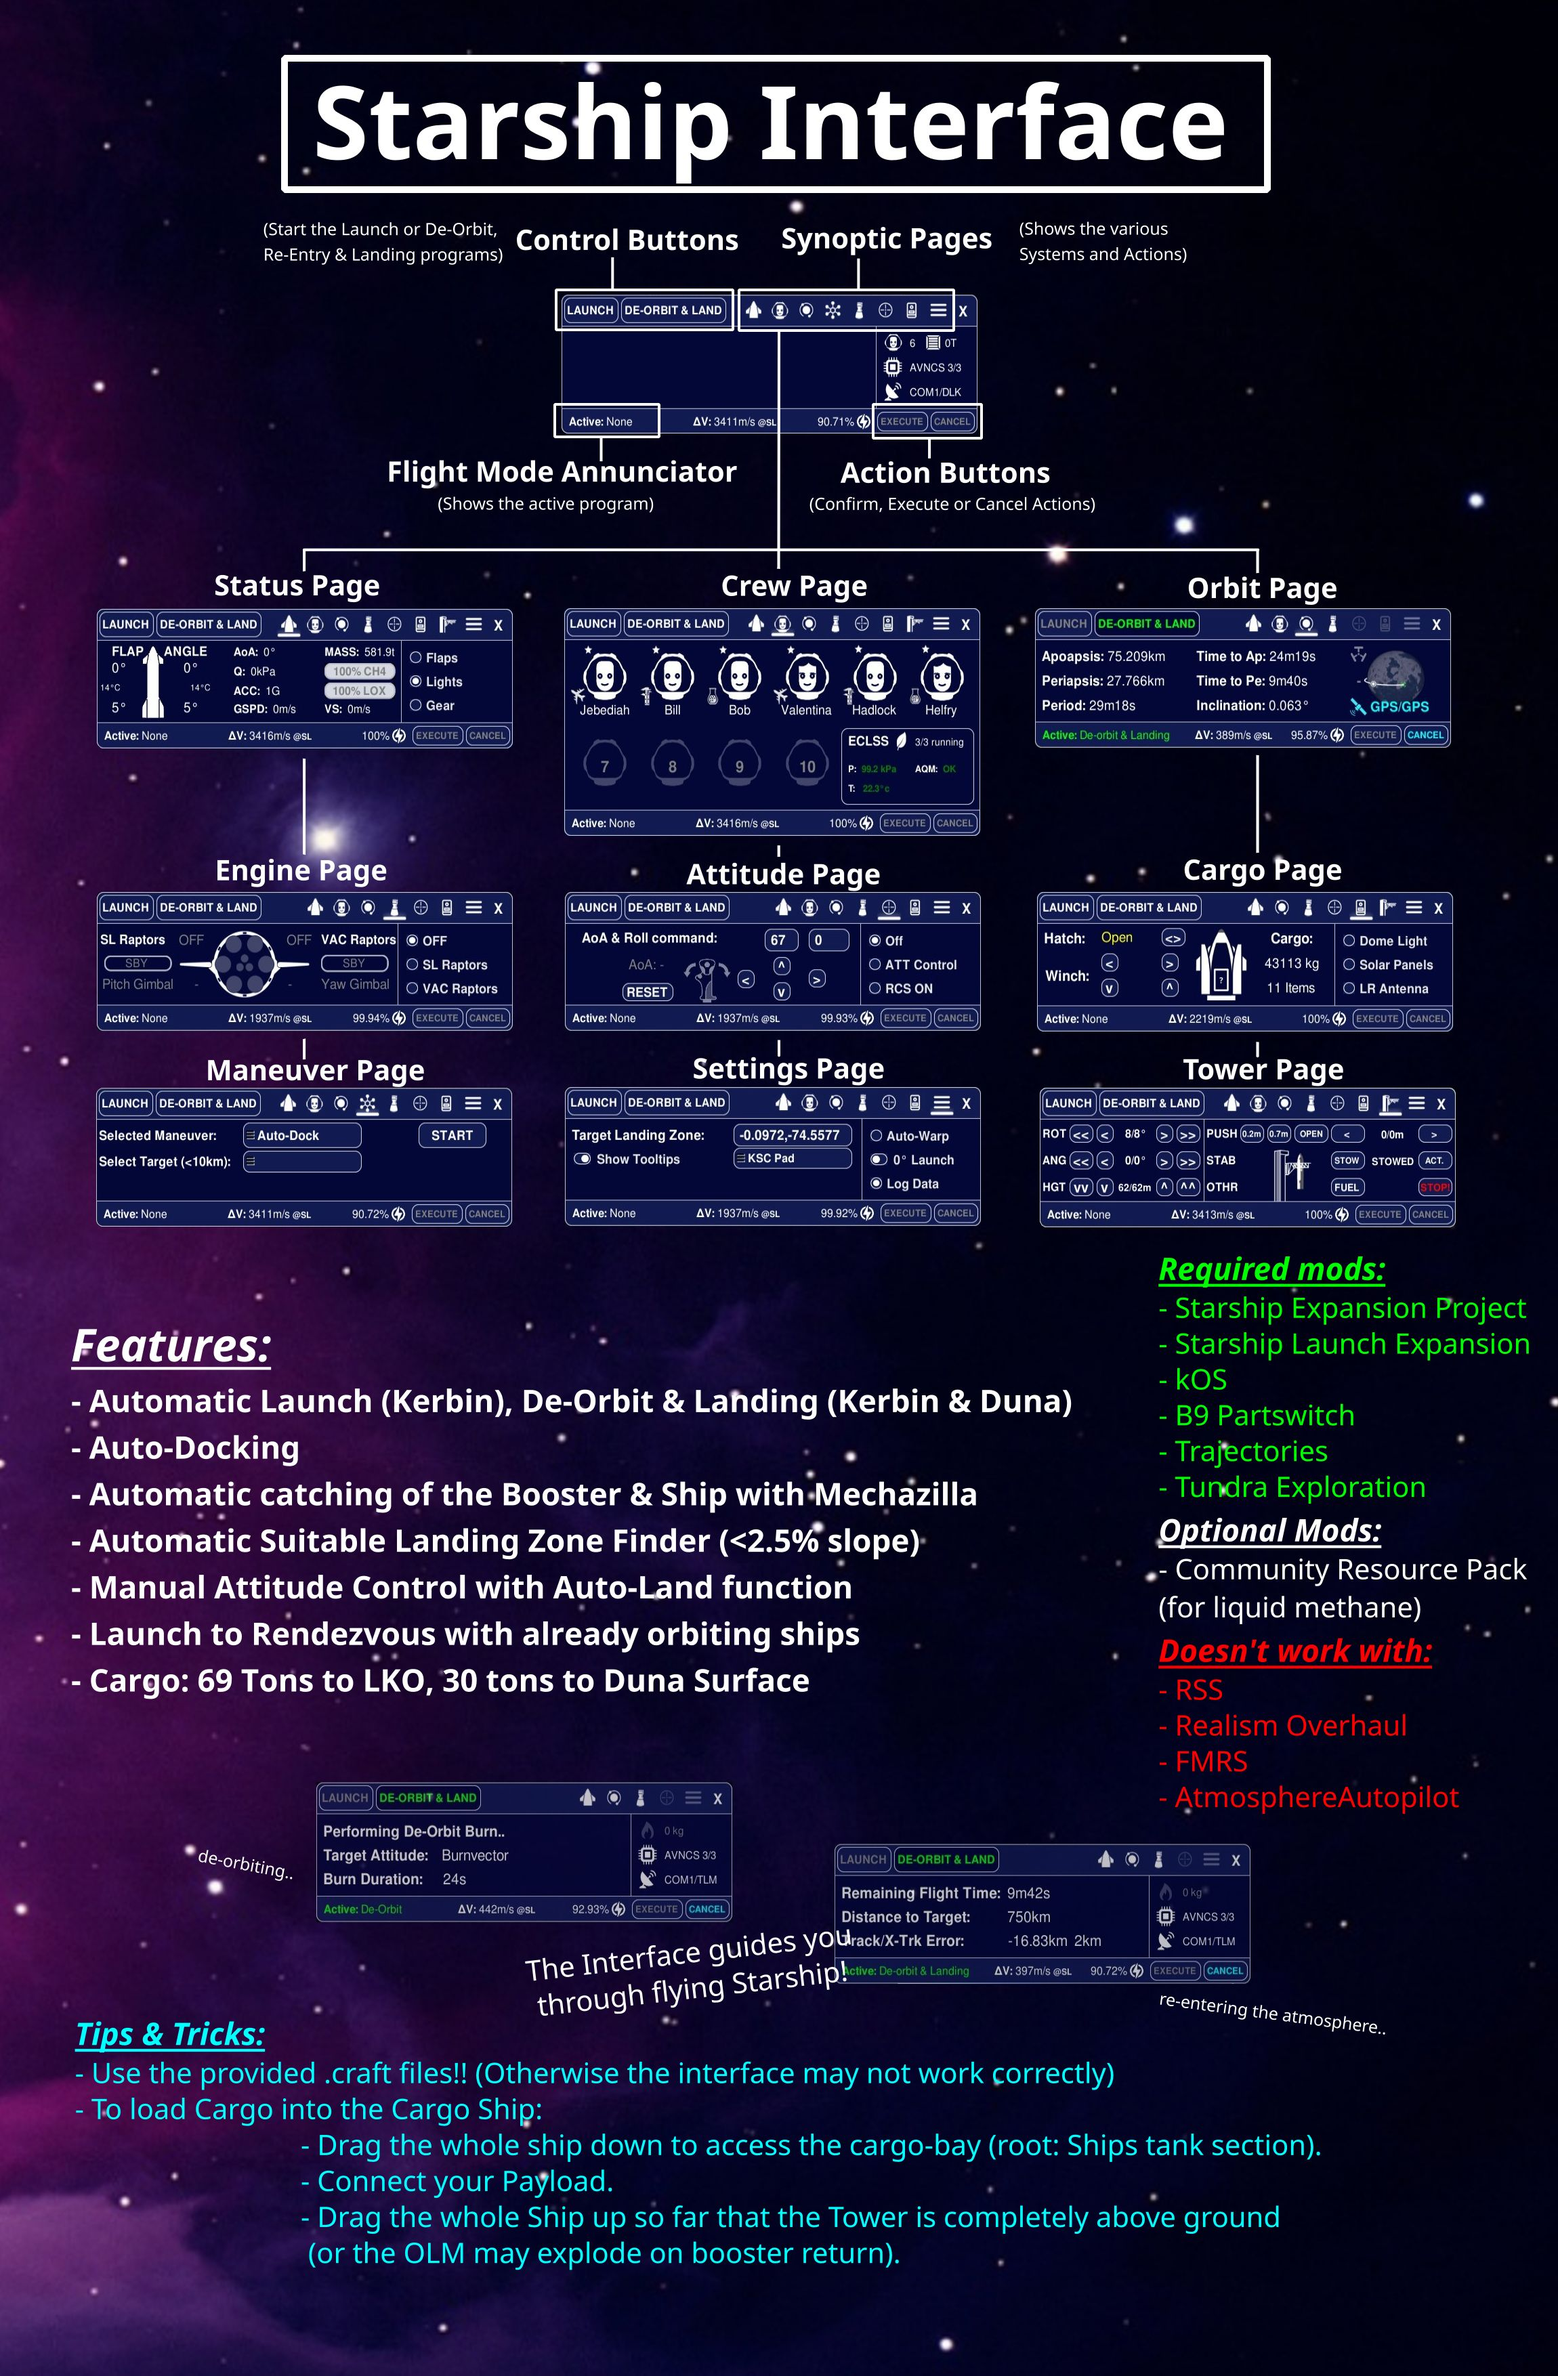
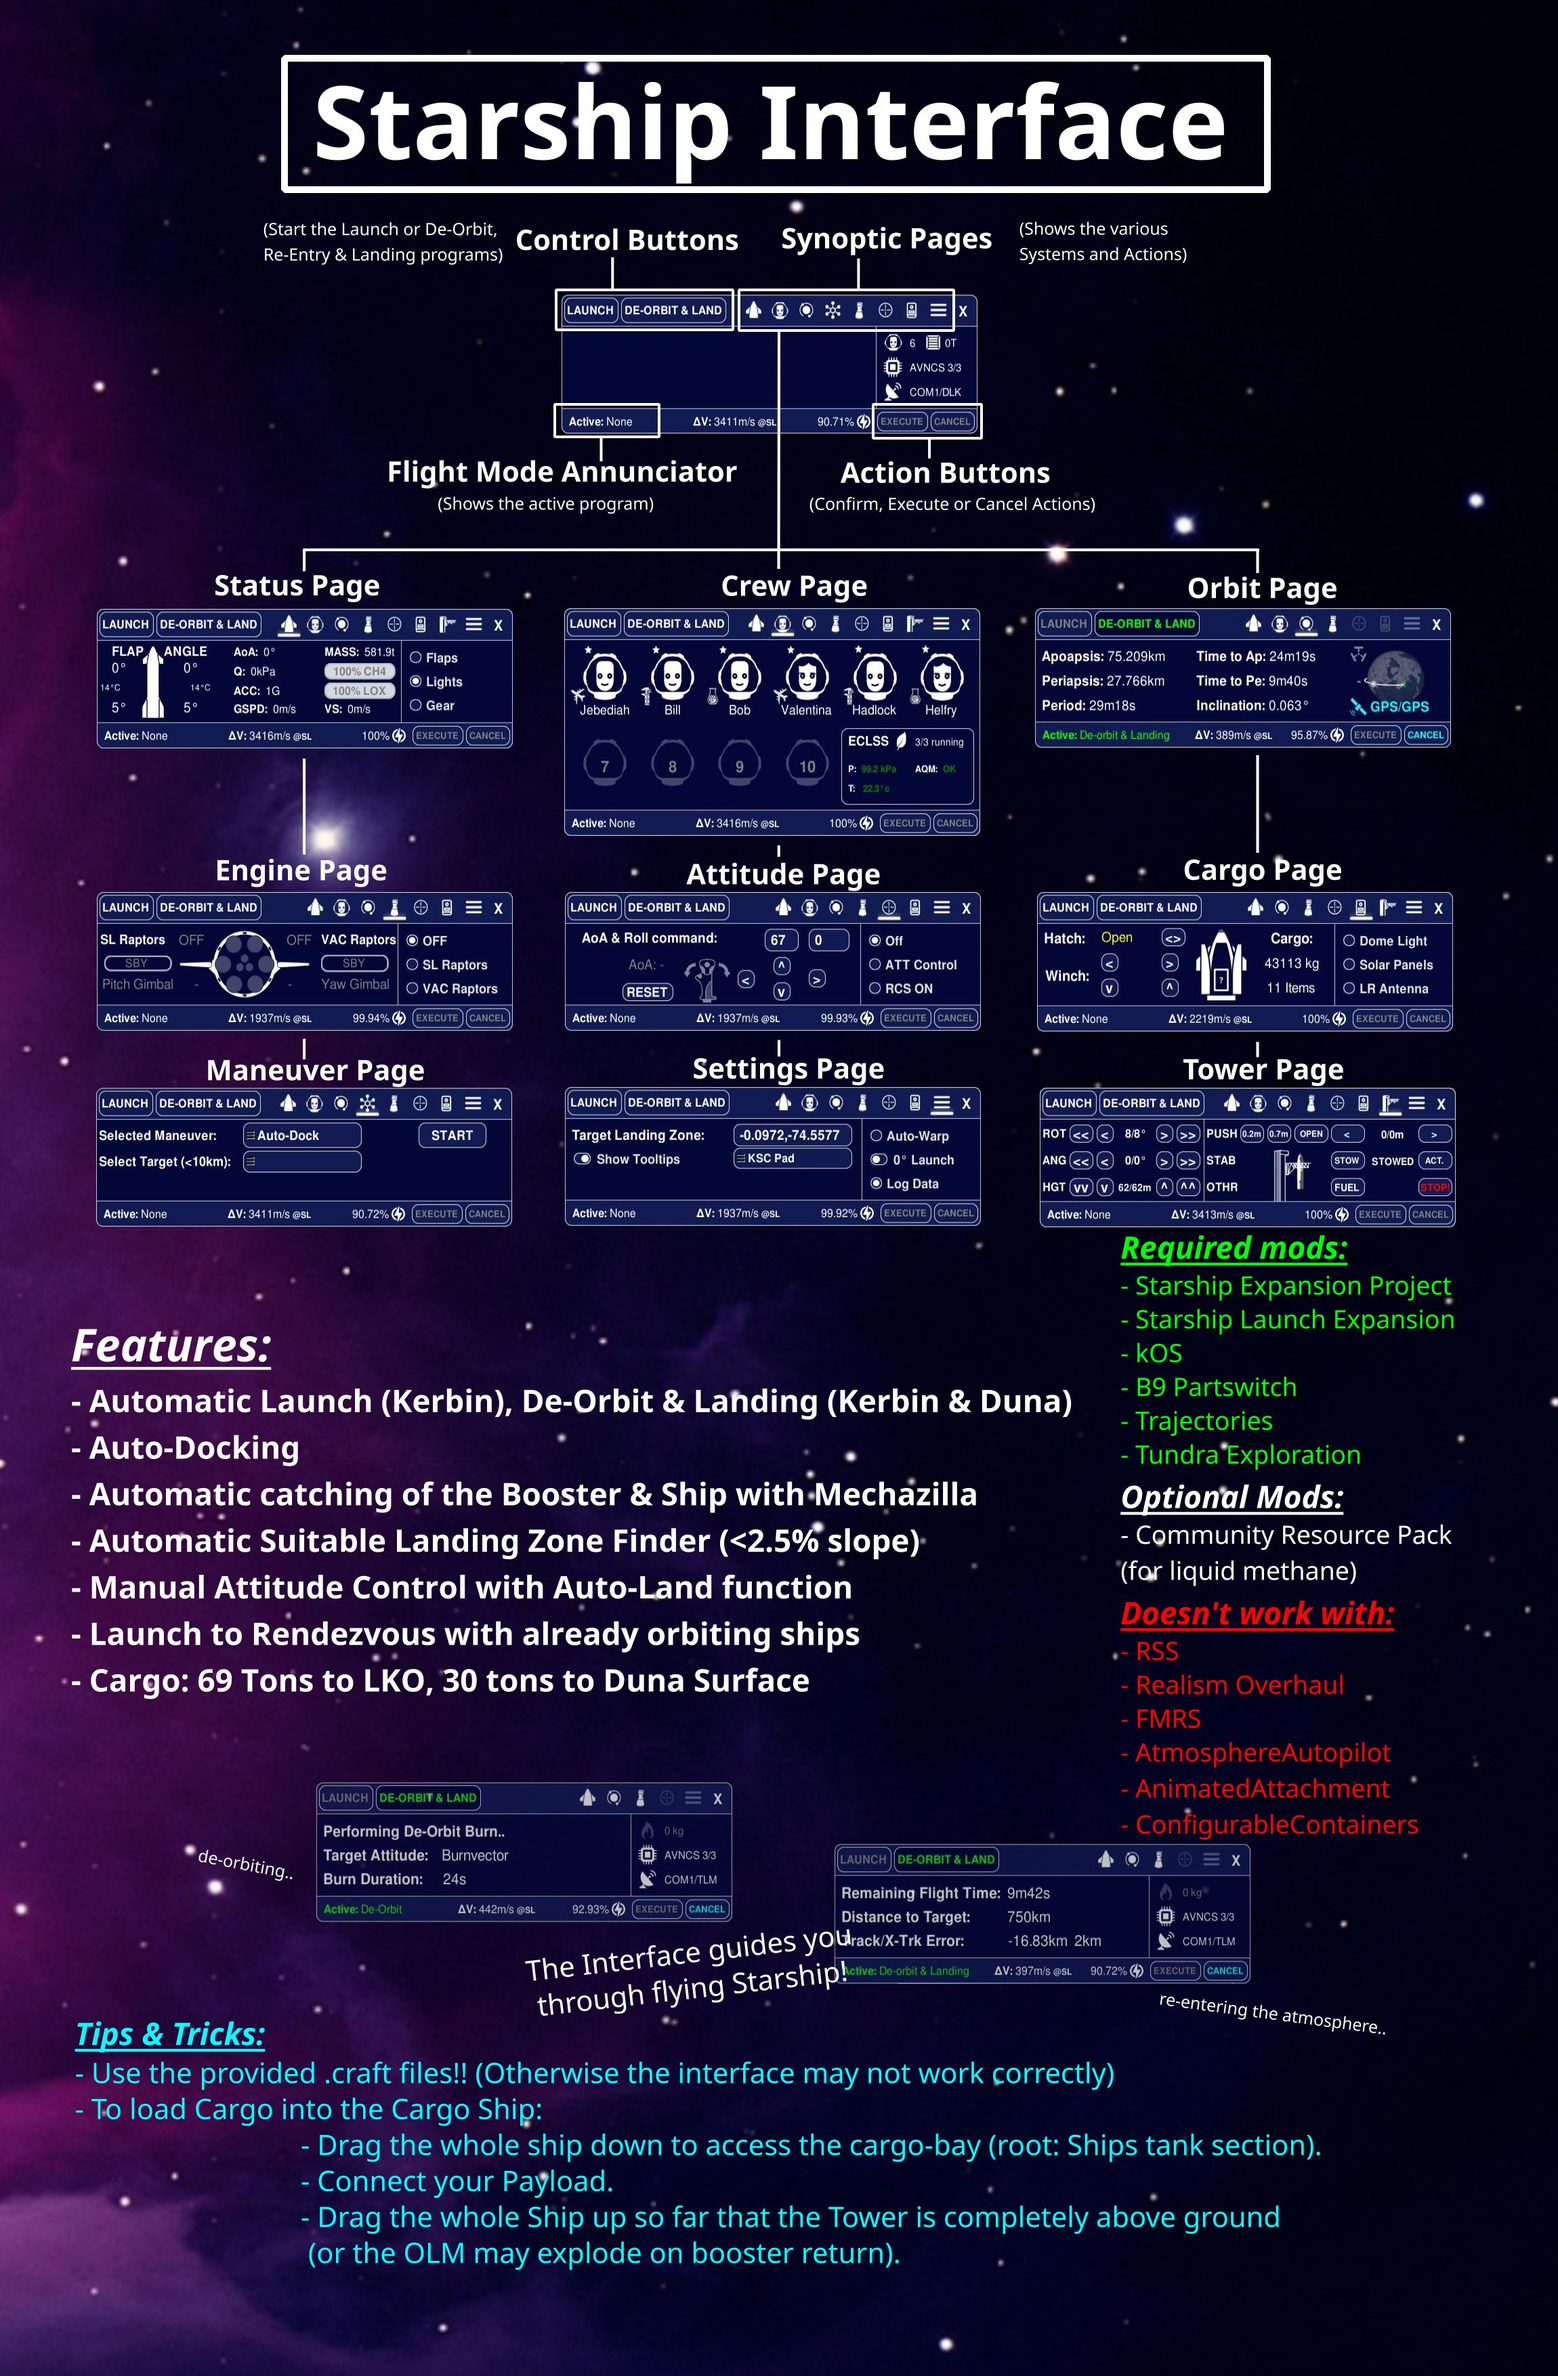
see changelog for changes

Changed region(s): [[0.71, 0.4971, 0.957, 0.7768]]

diff --git a/README.md b/README.md
@@ -9,7 +9,7 @@ An Interface for automating the 'Starship Expansion Project' and 'Starship Launc
 - Copy the 'GameData' and 'Ships' folders into your /Kerbal Space Program folder.
 
 
-# IMPORTANT:
+# IMPORTANT!:
 - Works only with the provided .craft files ("Starship Cargo", "Starship Crew", "Starship Tanker").
 - If the Interface doesn't show up, check again that you don't have any of the mods installed that the Interface doesn't work with (listed below).
 
@@ -33,9 +33,10 @@ An Interface for automating the 'Starship Expansion Project' and 'Starship Launc
 - RSS
 - Realism Overhaul
 - FMRS
+    (perhaps depends on usage?)
 - AtmosphereAutopilot
-
-
+- AnimatedAttachment
+- ConfigurableContainers
 
 # Tips & Tricks:
 To Load Cargo in the Cargo Ship:

diff --git a/CHANGELOG.md b/CHANGELOG.md
@@ -1,3 +1,6 @@
+# V1.0.2d
+- Added to incompatible mods that I can't figure out a patch for: ConfigurableContainers and AnimatedAttachment.
+
 # V1.0.2c
 - Hopefully a fix for auto-update loop on startup.
 
